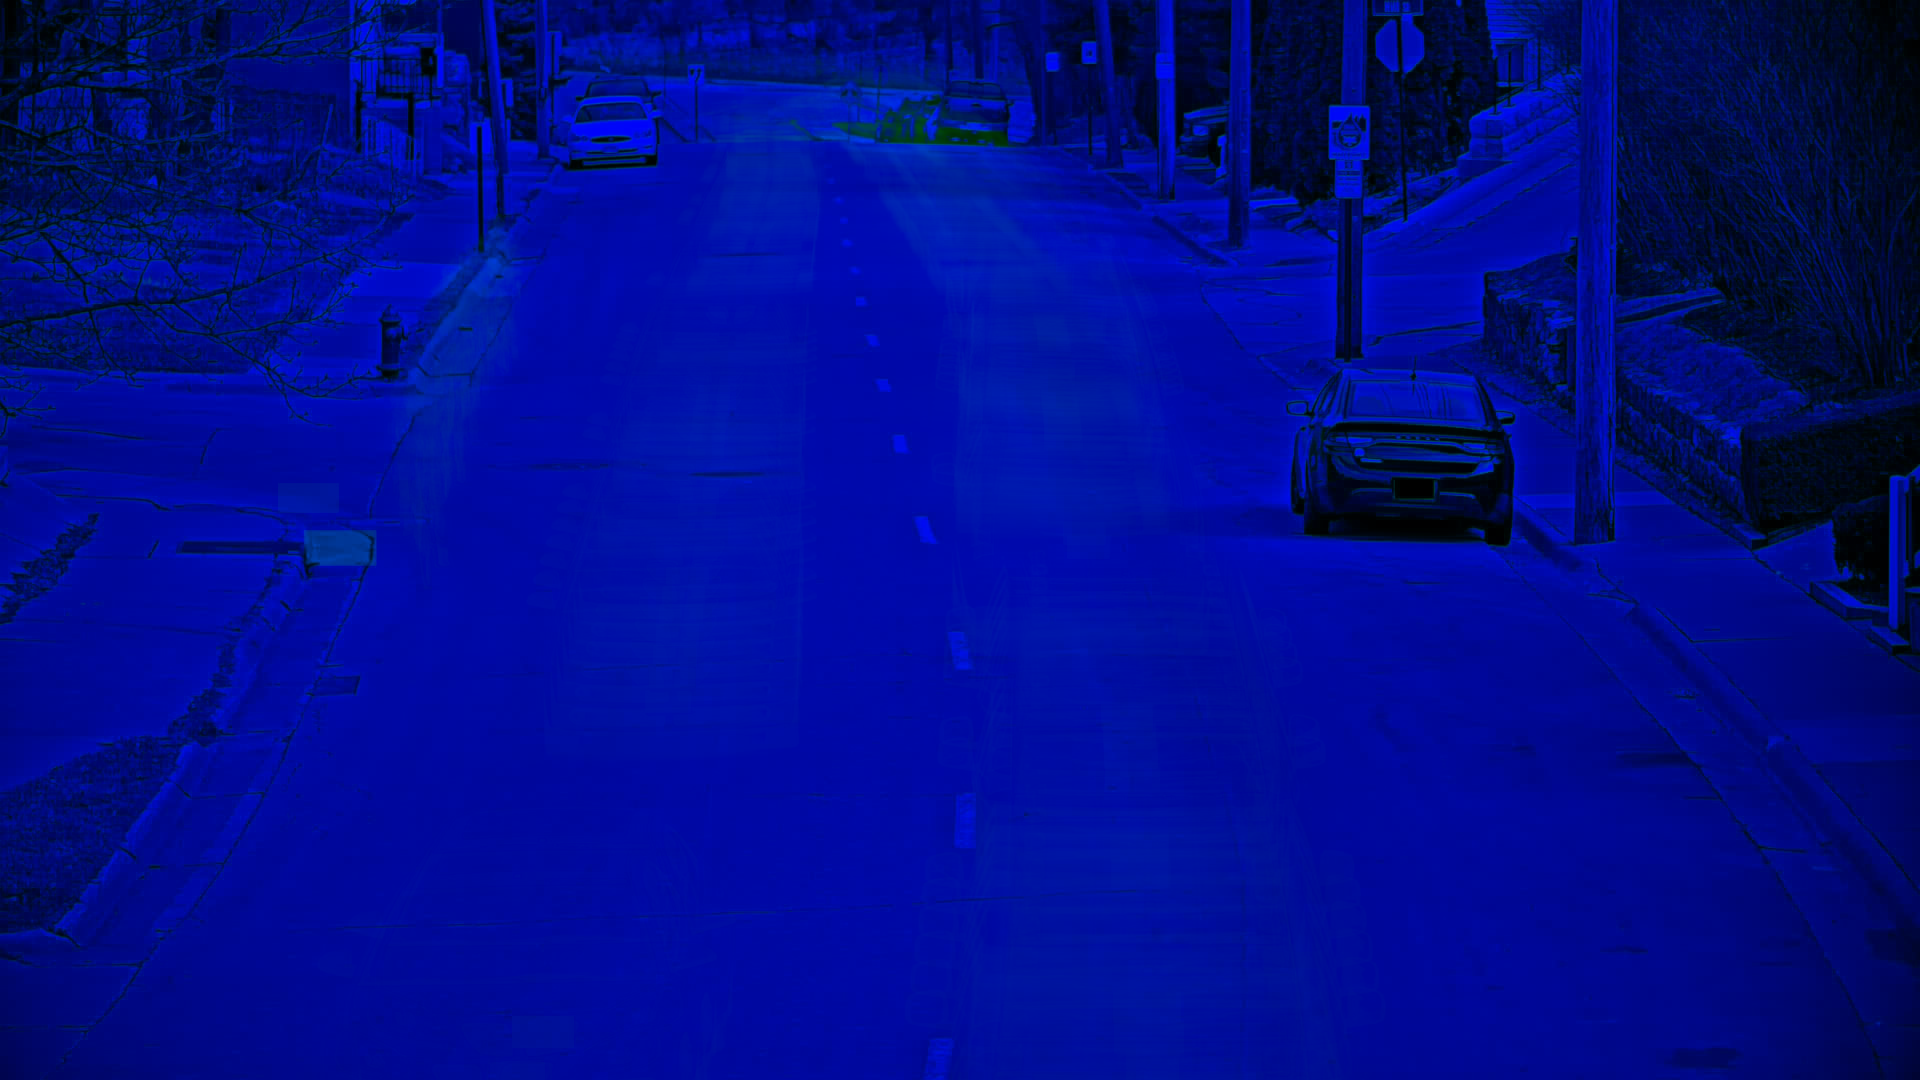
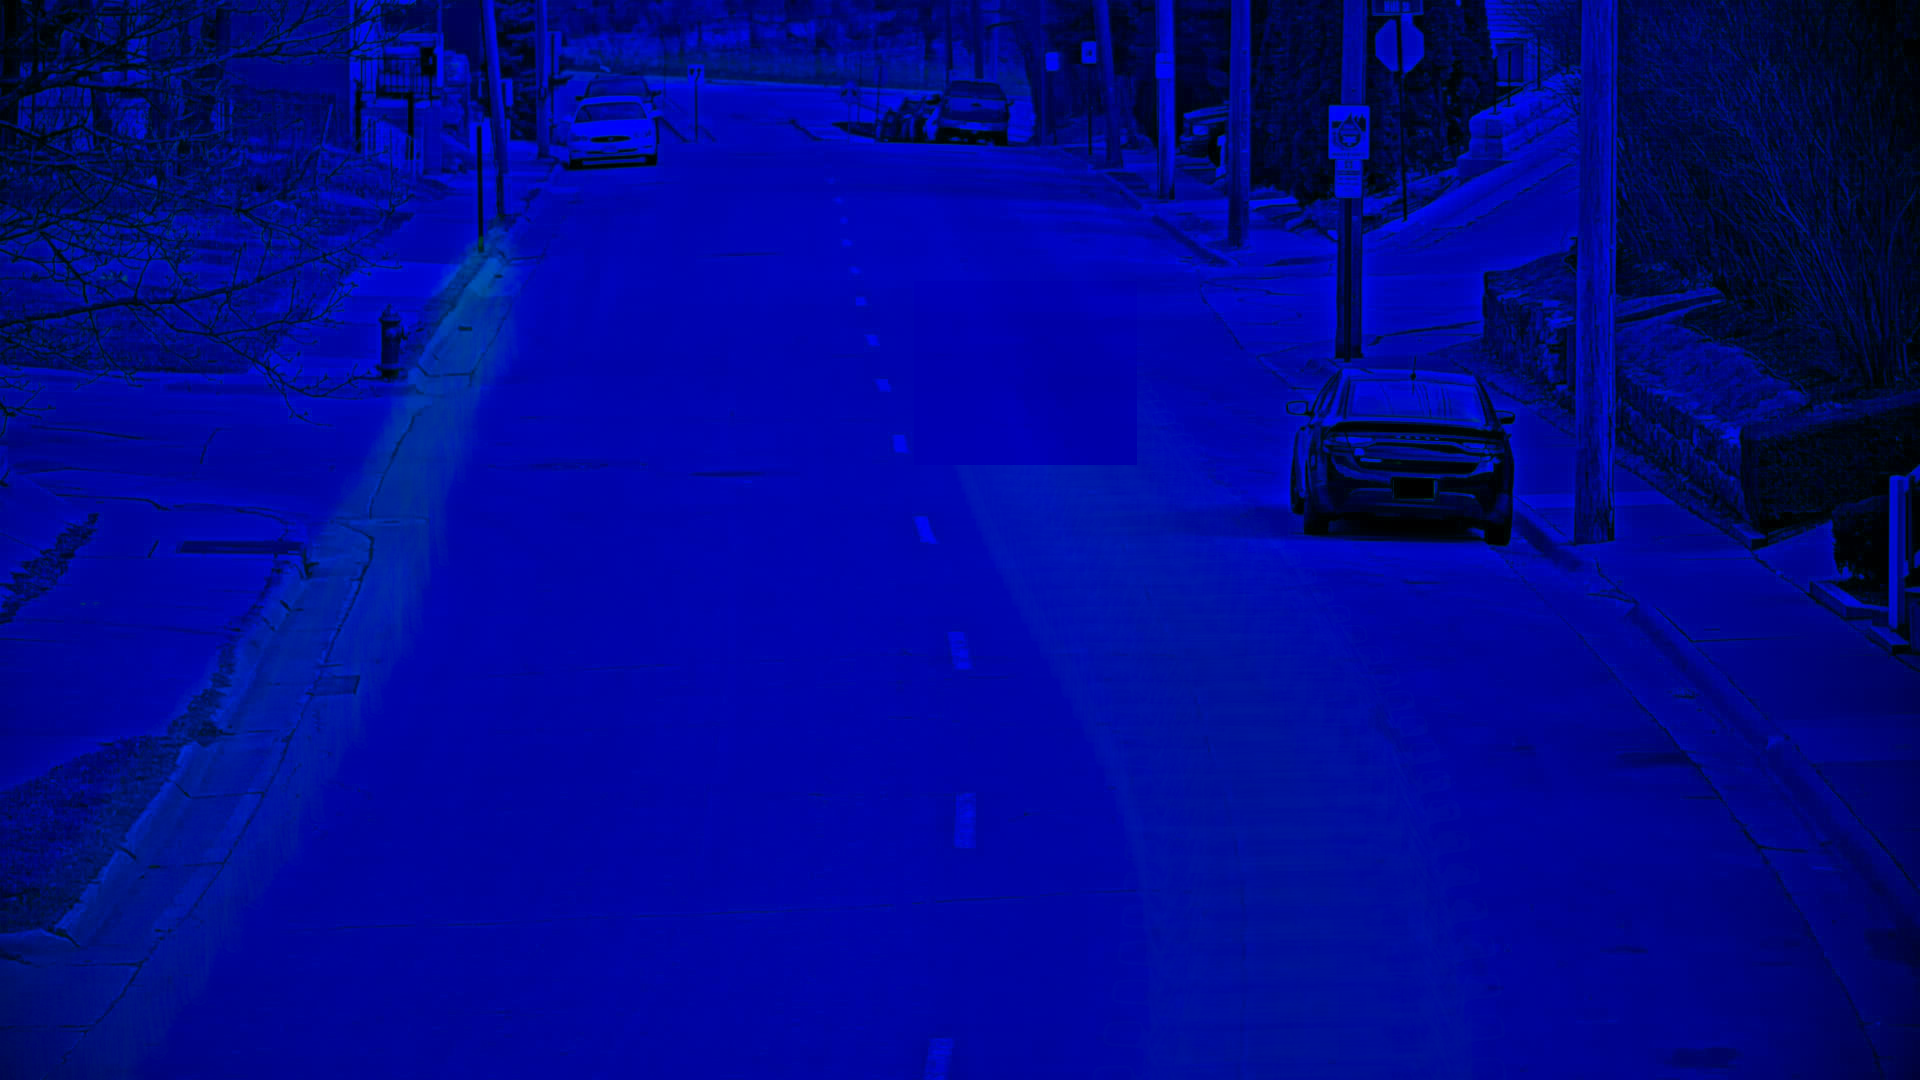
save model

diff --git a/src/utilsBG.py b/src/utilsBG.py
@@ -4,8 +4,27 @@ import utils as ut
 
 import cv2 as cv
 
+import matplotlib
+matplotlib.use('TkAgg')
 
-def getGauss_bg(file_list, D=1 , gt_file = None):
+import matplotlib.animation as manimation
+# For visulization
+import matplotlib.pyplot as plt
+
+# fig = plt.figure()
+# l, = plt.plot([], [], 'k-o')
+#
+#
+# with writer.saving(fig, "writer_test.mp4", 100):
+#     for i in range(100):
+#         x0 += 0.1 * np.random.randn()
+#         y0 += 0.1 * np.random.randn()
+#         l.set_data(x0, y0)
+#         writer.grab_frame()
+
+
+
+def getGauss_bg2(file_list, D=1 , gt_file = None, output_dir = None):
     """
     Computes Gaussian Background model.
 
@@ -15,7 +34,9 @@ def getGauss_bg(file_list, D=1 , gt_file = None):
     :return: mu_bg -  mean, var_bg
     """
 
-# Read the frame from the video and NOT the images
+
+# Create aa video of constructing the background MODEL
+
 
     if D==1:
         Clr_flag = cv.IMREAD_GRAYSCALE
@@ -26,86 +47,76 @@ def getGauss_bg(file_list, D=1 , gt_file = None):
     if gt_file:
         Bbox = ut.get_bboxes_from_MOTChallenge(gt_file)
     # Count the number of Images
-    N = len(file_list)
+
     # get image size
-
-    s = np.shape(cv.imread(file_list[0],Clr_flag))
-
-    # initializing the cumalitive frame matrix
-    if D==1:
-        A = np.ones((s[0],s[1],N))
-        ma = np.ones((s[0],s[1],N),dtype=np.bool)
-    for i,image_path in enumerate(file_list, start=0):
-
-        if gt_file:
-            frm = ut.frameIdfrom_filename(image_path)
-
-            ma[:,:,i] = ut.getbboxmask(Bbox,frm,(s[0],s[1]))
-
-        #Upload frame
-        I = cv.imread(image_path,Clr_flag)
-
-        if D==1:
-            A[:,:,i] = I
-
-    mu_bg = A.mean(axis=2)
-    std_bg = A.std(axis=2)
-    if gt_file:
-
-        for r in range(s[0]):
-            for c in range(s[1]):
-                p = A[r,c,ma[r,c,:]]
-                mu_bg[r,c] = p.mean()
-                std_bg[r,c] = p.std()
-
-    return mu_bg,std_bg
-
-def getGauss_bg2(file_list, D=1 , gt_file = None):
-    """
-    Computes Gaussian Background model.
-
-    :file_list: list of all images used to estimate the bg model
-    :D: False positives
-    : git_file , ignoring bbox of foreground when creating the bg model
-    :return: mu_bg -  mean, var_bg
-    """
-
-# Read the frame from the video and NOT the images
-
-    if D==1:
-        Clr_flag = cv.IMREAD_GRAYSCALE
-    else :
-        Clr_flag = cv.IMREAD_COLOR
-
-    # if there is bbox to ignore fron
-    if gt_file:
-        Bbox = ut.get_bboxes_from_MOTChallenge(gt_file)
-    # Count the number of Images
     N = len(file_list)
-    # get image size
 
     s = np.shape(cv.imread(file_list[0],Clr_flag))
     m0 = np.zeros((s[0],s[1]),dtype=bool)
     # initializing the cumalitive frame matrix
     if D==1:
         A = np.zeros((s[0],s[1]))
-        #ma = np.ones((s[0],s[1]),dtype=np.float)
         ma = np.full((s[0],s[1]), float(N))
+    #fig = plt.figure(1)
 
+    if output_dir:
+        #FFMpegWriter = manimation.writers['ffmpeg']
+        #writer = FFMpegWriter(fps=20, metadata=dict(artist='Team1',title='BG model'))
+
+        fig_ani = plt.figure(2)
+        ax1_ani = plt.subplot(221) # mu
+        ax2_ani = plt.subplot(222) # std
+        ax3_ani = plt.subplot(223) # mask
+        ax4_ani = plt.subplot(224) # mask
+        ax1_ani.imshow(A,cmap='gray')
+        ax2_ani.imshow(A,cmap='gray')
+        ax3_ani.imshow(ma,cmap='gray',vmin=0,vmax=N)
+        ax4_ani.imshow(m0,cmap='gray')
+        #writer.saving(fig_ani, vid_file, dpi=100)
     # I. Loop to obtain mean
+
+
+    #for j in range(n):
+        #update_figure(n)         #moviewriter.grab_frame()
     for i,image_path in enumerate(file_list, start=0):
         if gt_file:
             frm = ut.frameIdfrom_filename(image_path)
             m0 = ut.getbboxmask(Bbox,frm,(s[0],s[1]))
+
         #Upload frame
         if D==1:
-            I = cv.imread(image_path,Clr_flag)
+            # Read the frame from the video and NOT the images
+            I= cv.imread(image_path,Clr_flag)
+            if output_dir:
+                ax2_ani.cla()
+                ax4_ani.cla()
+                ax2_ani.imshow(I,cmap='gray')
+                ax4_ani.imshow(m0,cmap='gray',vmin=0,vmax=1)
+                ax4_ani.set_title("Current mask")
+                ax2_ani.set_title("frame {}".format(frm))
+                plt.pause(0.01)
+
             np.place(I, m0, 0.0)
             ma -= m0
             # Adding frames values
             A+= I
+            if output_dir:
+                ax1_ani.cla()
+                ax3_ani.cla()
+                ax1_ani.imshow(A,cmap='gray')
+                ax3_ani.imshow(ma,cmap='gray',vmin=0,vmax=N)
+
+                ax1_ani.set_title("Cumulative frames")
+                fig_ani.savefig(output_dir+'frm'+str(frm)+'.png')
+
+        #writer.grab_frame()
+                            #ax1_ani.cla()
     # Do ma need to be float??
     mu_bg = A/ma
+    if output_dir:
+        ax1_ani.cla()
+        ax1_ani.imshow(mu_bg,cmap='gray')
+        ax1_ani.set_title("Mean BG, over {} frames".format(frm))
 
     if D==1:
         A = np.zeros((s[0],s[1]))
@@ -120,11 +131,29 @@ def getGauss_bg2(file_list, D=1 , gt_file = None):
         #Upload frame
         if D==1:
             I = (cv.imread(image_path,Clr_flag)-mu_bg)**2
+            if output_dir:
+                ax2_ani.cla()
+                ax2_ani.imshow(I,cmap='gray')
+                ax2_ani.set_title("frame #{}".format(frm))
+                ax4_ani.cla()
+                ax4_ani.imshow(m0,cmap='gray',vmin=0,vmax=1)
+                ax4_ani.set_title("Current mask")
             np.place(I, m0, 0.0)
             A+= I
+            if output_dir:
+                ax3_ani.cla()
+                ax3_ani.imshow(A,cmap='gray')
+                ax3_ani.set_title("Cumulative STD")
+                fig_ani.savefig(output_dir+'frm'+str(frm)+'.png')
 
     std_bg = np.sqrt(A/ma)
-
+    #ani.save('HeroinOverdosesJumpy.mp4', writer=writer)
+    if output_dir:
+        ax3_ani.cla()
+        ax3_ani.imshow(std_bg,cmap='gray')
+        ax3_ani.set_title("Std BG, over {} frames".format(frm))
+        fig_ani.savefig(output_dir+'final.png')
+        plt.close(fig_ani)
     return mu_bg,std_bg
 
 

diff --git a/src/script_w2.py b/src/script_w2.py
@@ -22,7 +22,11 @@ Estimating on 25% of the video frame
 frames_dir = '../frames'
 gt_file = '../datasets/AICity_data/train/S03/c010/gt/gt.txt'
 frame_list = ut.get_files_from_dir2(frames_dir,ext = '.jpg')
+frame_list.sort(key=ut.natural_keys)
+
 output_dir = '../week2_results/'
+if not os.path.isdir(output_dir+'BG_1G/'):
+    os.mkdir(output_dir+'BG_1G/')
 #frame_list = ut.get_files_from_dir(frames_dir, excl_ext='jpg')
 #print frame_list
 # training
@@ -36,18 +40,21 @@ Nt = int(N*0.25)
 #trainig_list = frame_list[:Nt]
 trainig_list = frame_list[:Nt]
 testing_list = frame_list[Nt:]
-print(N)
-print('Training:')
-print(len(trainig_list))
-print('Testing:')
-print(len(testing_list))
+print(np.shape(trainig_list))
+print("Total # of frames {}".format(N))
+print("Training: # {}".format(len(trainig_list)))
+print("Testing: # {}".format(len(testing_list)))
+
 
 [muBG,stdBG] = bg.getGauss_bg2(trainig_list, D=1,gt_file = gt_file)
+[muBG2,stdBG2] = bg.getGauss_bg2(trainig_list, D=1)
 #[muBG,stdBG] = bg.getGauss_bg2(trainig_list, D=1)
 # Output 1
 Out1 = cv.merge((muBG,stdBG,np.zeros(np.shape(muBG))))
+Out2 = cv.merge((muBG2,stdBG2,np.zeros(np.shape(muBG2))))
 print(np.shape(Out1))
-cv.imwrite(output_dir+'Bg_1g_masked.png',Out1)
+cv.imwrite(output_dir+'BG_1g_masked.png',Out1)
+cv.imwrite(output_dir+'BG_1g.png',Out2)
 #np.save(output_dir+'Bg_1g',Out1)
 
 """
@@ -58,14 +65,7 @@ ax1 = plt.subplot(211)
     #ax3 = plt.subplot(312)
 ax2 = plt.subplot(212)
 
-#img1_ex = np.expand_dims(muBG,-1)
-#img2_ex = np.expand_dims(varBG,-1)
-#hsv = np.concatenate((img1_ex,np.zeros_like(img1_ex),img2_ex),axis=2 )
-#hsv = cv.cvtColor(hsv,  cv.COLOR_HSV2BGR);
-    #cv::imshow("optical flow", bgr);
-    #rgb = np.concatenate((img1_ex,img2_ex,img2_ex),axis=2 )
-#ax2.imshow(matplotlib.colors.hsv_to_rgb(hsv),cmap='hsv')
-#ax2.imshow(hsv)
+
 ax1.imshow(muBG,cmap='gray')
 ax2.imshow(stdBG,cmap='gray')
 
@@ -75,7 +75,7 @@ ax2.set_title("Std noise BG model")
 plt.show()
 
 # Testing Example
-th = 2
+th = 3
 I = cv.imread(testing_list[500],cv.IMREAD_GRAYSCALE)
 mapBG = bg.foreground_from_GBGmodel(muBG,stdBG,I,th =th)
 fig = plt.figure(1)

diff --git a/src/utils.py b/src/utils.py
@@ -18,6 +18,8 @@ from skimage import exposure
 import evaluation.evaluation_funcs as evalf
 # Local modules
 
+# sort
+import re
 # Logger setup
 logging.basicConfig(
     # level=logging.DEBUG,
@@ -548,3 +550,9 @@ def getbboxmask(BboxList,frm,imsize):
             mask[yy,xx] = np.ones(np.shape(xx),dtype =bool)
 
     return mask
+
+def atoi(text):
+    return int(text) if text.isdigit() else text
+
+def natural_keys(text):
+    return [ atoi(c) for c in re.split('(\d+)',text) ]
